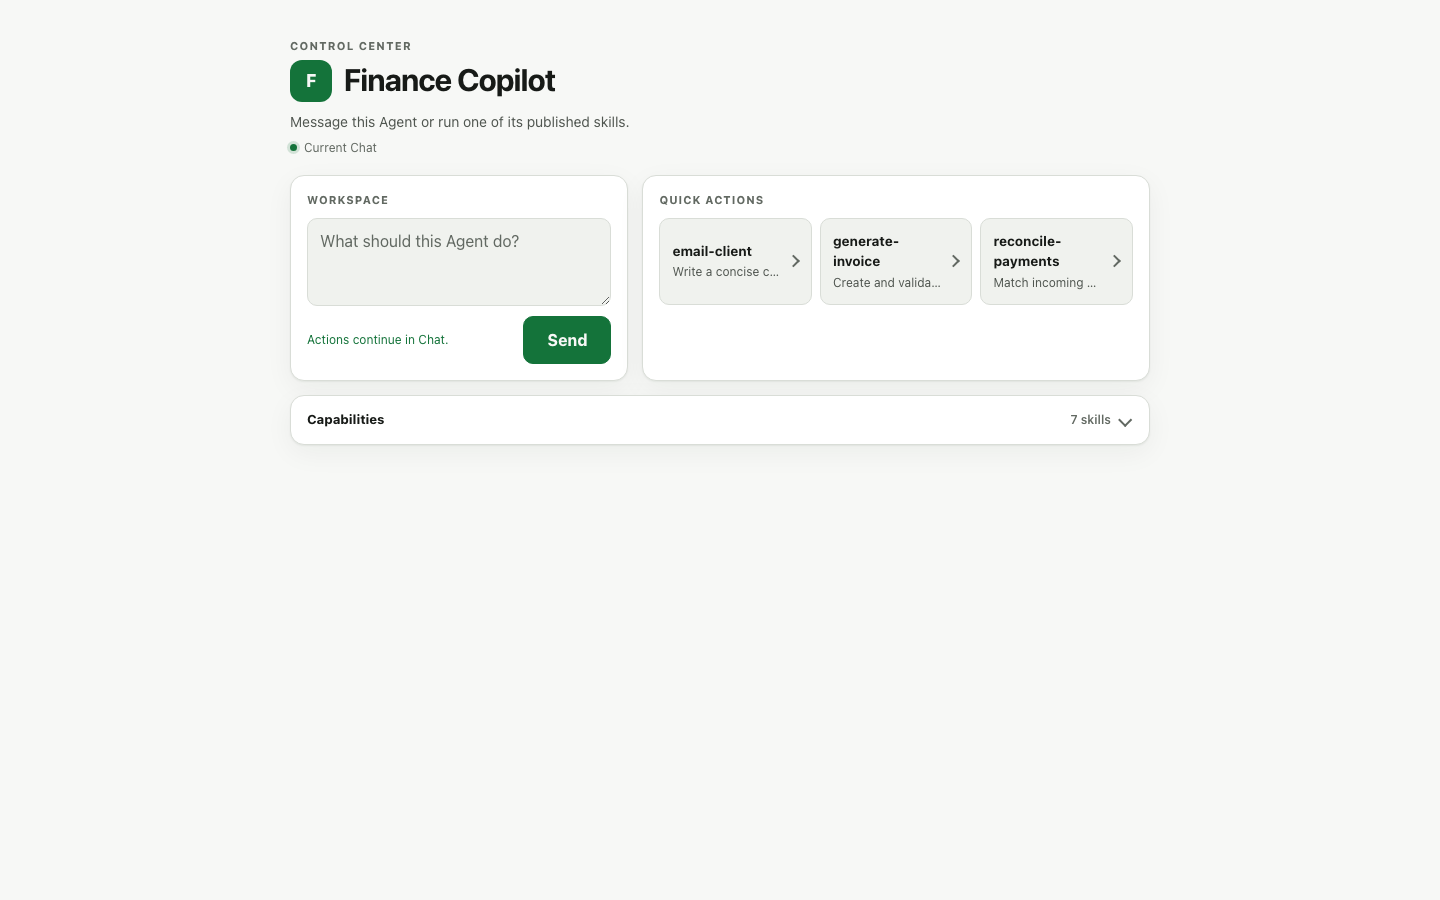
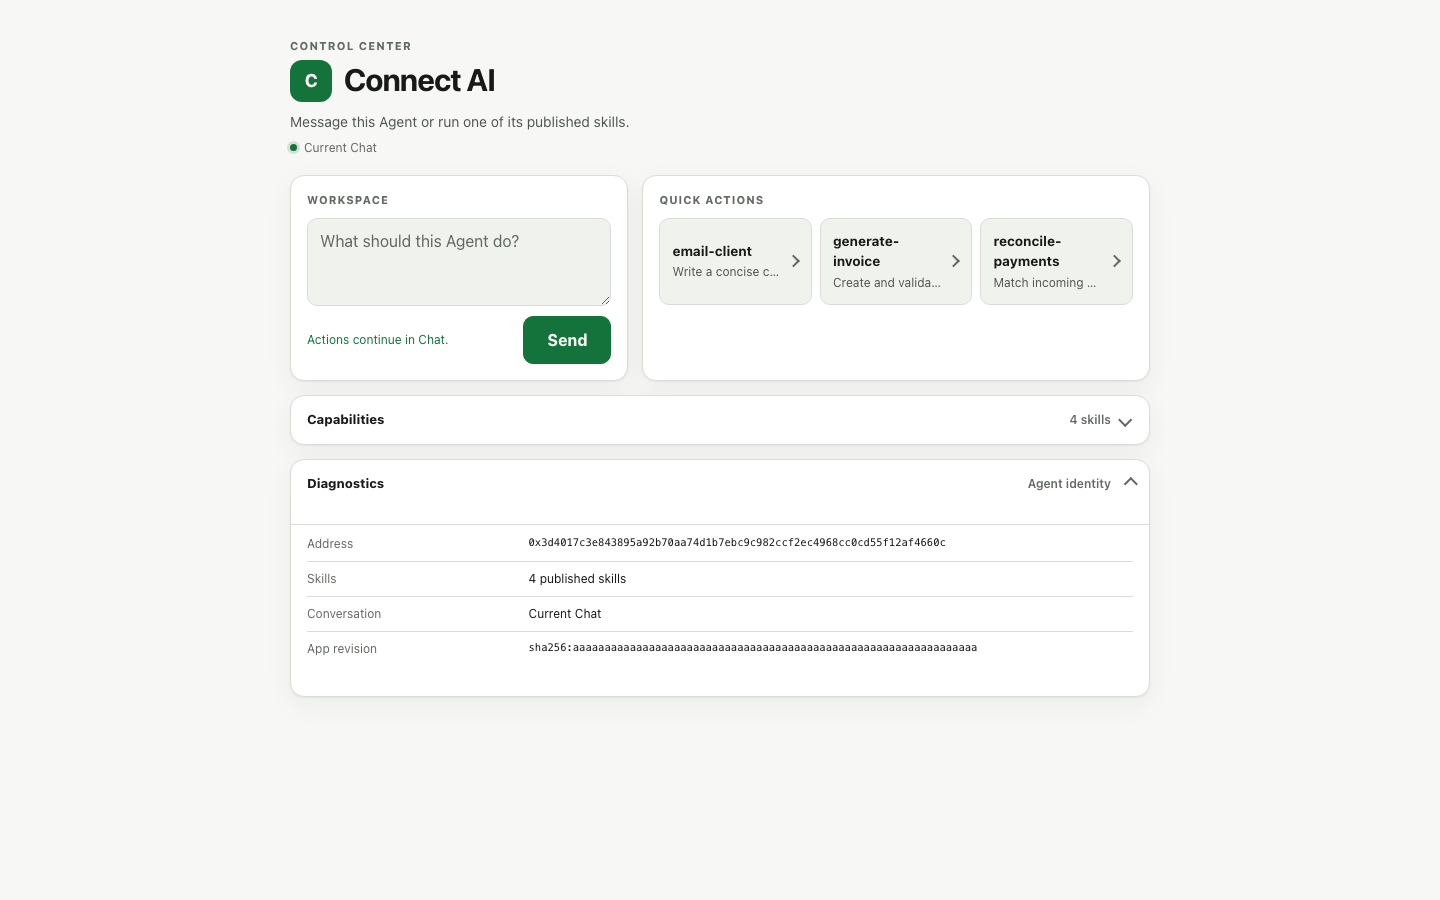
show Connect AI identity in Control Center

diff --git a/connectonion/cli/assets/control-center/index.html b/connectonion/cli/assets/control-center/index.html
@@ -3,7 +3,7 @@
 <head>
   <meta charset="utf-8">
   <meta name="viewport" content="width=device-width, initial-scale=1">
-  <title>Agent · Control Center</title>
+  <title>Connect AI · Control Center</title>
   <style>
     /* This is the interactive version of CO AI's canonical starter.html.
        Keep its tokens, landmarks, and responsive structure in sync with
@@ -161,6 +161,13 @@
     .empty p { margin: 0; color: var(--cc-muted); font-size: 13px; }
     code { padding: 1px 5px; border-radius: 5px; background: var(--cc-accent-soft); font-size: .92em; }
 
+    .diagnostics { padding: 2px 16px 14px; border-top: 1px solid var(--cc-border); }
+    .diag { display: grid; grid-template-columns: minmax(92px, .35fr) 1fr; gap: 10px; padding: 8px 0; border-top: 1px solid var(--cc-border); font-size: 12px; }
+    .diag:first-child { border-top: 0; }
+    .diag dt { color: var(--cc-subtle); }
+    .diag dd { margin: 0; min-width: 0; overflow-wrap: anywhere; }
+    .addr, .revision { font-family: ui-monospace, SFMono-Regular, Menlo, monospace; font-size: 10.5px; user-select: all; }
+
     @media (min-width: 640px) {
       .masthead { grid-template-columns: 1fr auto; align-items: end; }
       .overview { grid-template-columns: minmax(0, .8fr) minmax(0, 1.2fr); }
@@ -173,6 +180,7 @@
       .quick .skill { min-height: 56px; }
       .composer-actions { align-items: stretch; flex-direction: column; }
       .send { width: 100%; }
+      .diag { grid-template-columns: 1fr; gap: 2px; }
     }
     @media (prefers-reduced-motion: no-preference) {
       .skill, summary, .send { transition: background-color .14s ease, border-color .14s ease, filter .14s ease; }
@@ -187,7 +195,7 @@
     <header class="masthead">
       <div>
         <p class="eyebrow">Control Center</p>
-        <div class="identity"><span id="agent-initial" class="mark" aria-hidden="true">A</span><h1 id="agent-name">Agent</h1></div>
+        <div class="identity"><span id="agent-initial" class="mark" aria-hidden="true">C</span><h1 id="agent-name">Connect AI</h1></div>
         <p class="tagline">Message this Agent or run one of its published skills.</p>
         <p id="connection" class="sub"><span class="connection-dot" aria-hidden="true"></span><span id="connection-label">Open through O Chat to connect</span></p>
       </div>
@@ -221,6 +229,16 @@
           </div>
           <section id="search-empty" class="empty" hidden><p>No capabilities match this search.</p></section>
         </div>
+      </details>
+
+      <details class="card diagnostics-card">
+        <summary><span>Diagnostics</span><span class="count">Agent identity</span></summary>
+        <dl class="diagnostics">
+          <div class="diag"><dt>Address</dt><dd id="agent-address" class="addr">Available after connection</dd></div>
+          <div class="diag"><dt>Skills</dt><dd id="diagnostic-skills">Unknown</dd></div>
+          <div class="diag"><dt>Conversation</dt><dd id="diagnostic-conversation">Not connected</dd></div>
+          <div class="diag"><dt>App revision</dt><dd id="app-revision" class="revision">Not connected</dd></div>
+        </dl>
       </details>
     </div>
   </main>

diff --git a/connectonion/cli/assets/control-center/control-center.js b/connectonion/cli/assets/control-center/control-center.js
@@ -17,6 +17,10 @@ const capabilityList = document.querySelector('#capability-list')
 const capabilityCount = document.querySelector('#capability-count')
 const skillFilter = document.querySelector('#skill-filter')
 const searchEmpty = document.querySelector('#search-empty')
+const agentAddress = document.querySelector('#agent-address')
+const diagnosticSkills = document.querySelector('#diagnostic-skills')
+const diagnosticConversation = document.querySelector('#diagnostic-conversation')
+const appRevision = document.querySelector('#app-revision')
 
 function setStatus(message, state = 'idle') {
   status.dataset.state = state
@@ -98,6 +102,9 @@ function renderSkills(skills = []) {
   capabilityCount.textContent = ordered.length
     ? `${ordered.length} skill${ordered.length === 1 ? '' : 's'}`
     : 'None published'
+  diagnosticSkills.textContent = ordered.length
+    ? `${ordered.length} published skill${ordered.length === 1 ? '' : 's'}`
+    : 'None published'
   skillFilter.hidden = ordered.length <= 6
   skillFilter.value = ''
   searchEmpty.hidden = true
@@ -117,12 +124,15 @@ function filterSkills() {
 function receive(message = {}) {
   if (message.version !== BRIDGE_VERSION || message.revision !== revision) return
   if (message.type === 'connectonion.control-center/context') {
-    const name = message.agent?.name || 'Agent'
+    const name = message.agent?.name || 'Connect AI'
     document.querySelector('#agent-name').textContent = name
-    document.querySelector('#agent-initial').textContent = name.trim()[0] || 'A'
+    document.querySelector('#agent-initial').textContent = name.trim()[0] || 'C'
     document.title = `${name} · Control Center`
     renderSkills(message.skills)
     const hasChat = Boolean(message.conversation?.sessionId)
+    agentAddress.textContent = message.agent?.address || 'Unavailable'
+    diagnosticConversation.textContent = hasChat ? 'Current Chat' : 'Created by the first action'
+    appRevision.textContent = message.revision
     connectionLabel.textContent = hasChat ? 'Current Chat' : 'First action creates a Chat'
     connection.classList.add('connected')
     submit.disabled = false

diff --git a/tests/unit/test_project_cmd_lib.py b/tests/unit/test_project_cmd_lib.py
@@ -32,6 +32,8 @@ class TestControlCenterTemplate:
         assert "interactive version of CO AI's canonical starter.html" in html
         for landmark in ("Control Center", "Workspace", "Quick actions", "Capabilities"):
             assert landmark in html
+        assert "Connect AI" in html
+        assert "Diagnostics" in html and 'id="agent-address"' in html
         for token in ("--cc-bg", "--cc-surface", "--cc-accent", "--cc-focus"):
             assert token in html
         assert "color-scheme: light dark" in html
@@ -48,6 +50,7 @@ class TestControlCenterTemplate:
             assert re.findall(declarations, html) == re.findall(declarations, starter)
         assert "send_message" in bridge and "run_skill" in bridge
         assert "message.skills" in bridge
+        assert "message.agent?.address" in bridge
         assert "current Agent Chat" in contract
         assert "exact immutable bundle" in contract
         assert "<agent-address>/<sha256-revision>/index.html" in contract

diff --git a/docs/network/control-center.md b/docs/network/control-center.md
@@ -52,9 +52,10 @@ The app receives a correlated acknowledgement through its `MessagePort`. The age
 answer appears in Chat. Streaming normalized output back into the website can be added
 later without changing these request actions.
 
-The initial context includes the authenticated Agent identity, current session, and
-skill names. The default template builds its buttons from that list, so it does not
-need to hard-code invoice or other project-specific skills.
+The initial context includes the authenticated Agent name and full address, current
+session, app revision, and skill names. The default template shows the address and
+other identity facts in its canonical Diagnostics disclosure, then builds its buttons
+from the skill list. It does not hard-code invoice or another project-specific Agent.
 
 ## The iframe URL
 

diff --git a/docs/network/websocket-protocol.md b/docs/network/websocket-protocol.md
@@ -731,6 +731,10 @@ The website receives a transferred `MessagePort` and may request `send_message` 
 becomes the visible user message `/skill-name arguments`. An explicit
 `conversation: "new"` is reserved for actions that need isolated context.
 
+The initial context carries the authenticated Agent name and full address, current
+session, immutable app revision, and skill list. The default app can therefore render
+honest identity Diagnostics and real skill buttons without hard-coding one Agent.
+
 `co create` and `co init` now scaffold the editable source in
 `.co/control-center/`. Uploading it, producing the immutable URL, independent review,
 and Host emission of this frame remain preview work; a project must not hand-author an

diff --git a/connectonion/cli/assets/control-center/CONTROL_CENTER.md b/connectonion/cli/assets/control-center/CONTROL_CENTER.md
@@ -8,6 +8,8 @@ stack without depending on O Chat's private component tree.
 
 - It starts from CO AI's canonical default Control Center design: Agent identity,
   Workspace, Quick actions, Capabilities, and the shared light/dark color tokens.
+- Diagnostics shows the authenticated Agent address, conversation, published skill
+  count, and immutable app revision without truncating identity data.
 - The message form calls `send_message`.
 - Each published project skill becomes a `run_skill` button.
 - Both actions become visible, attributable user turns in the current Agent Chat.
